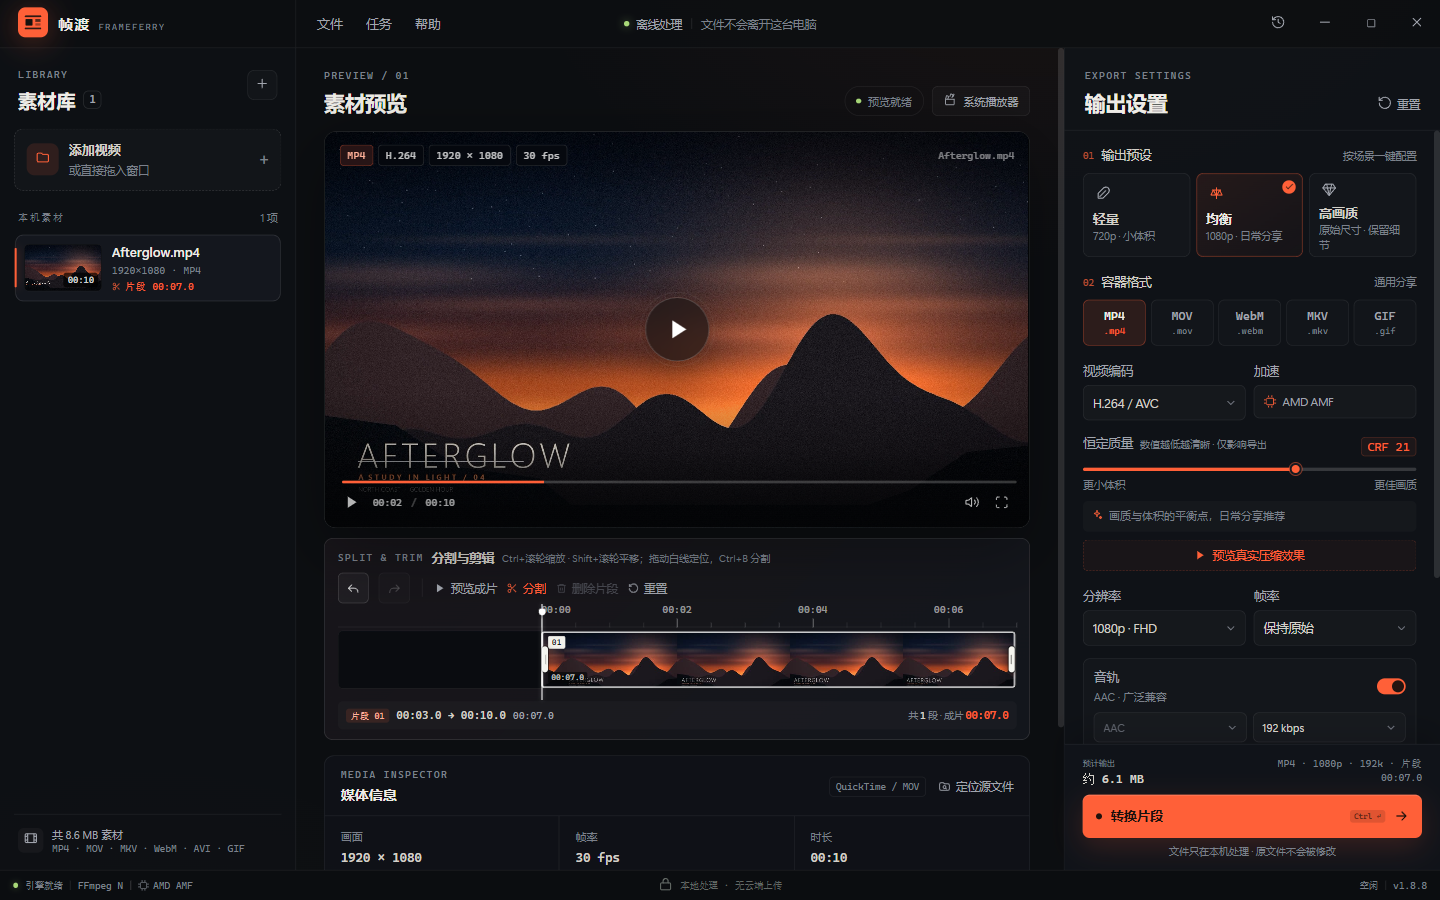
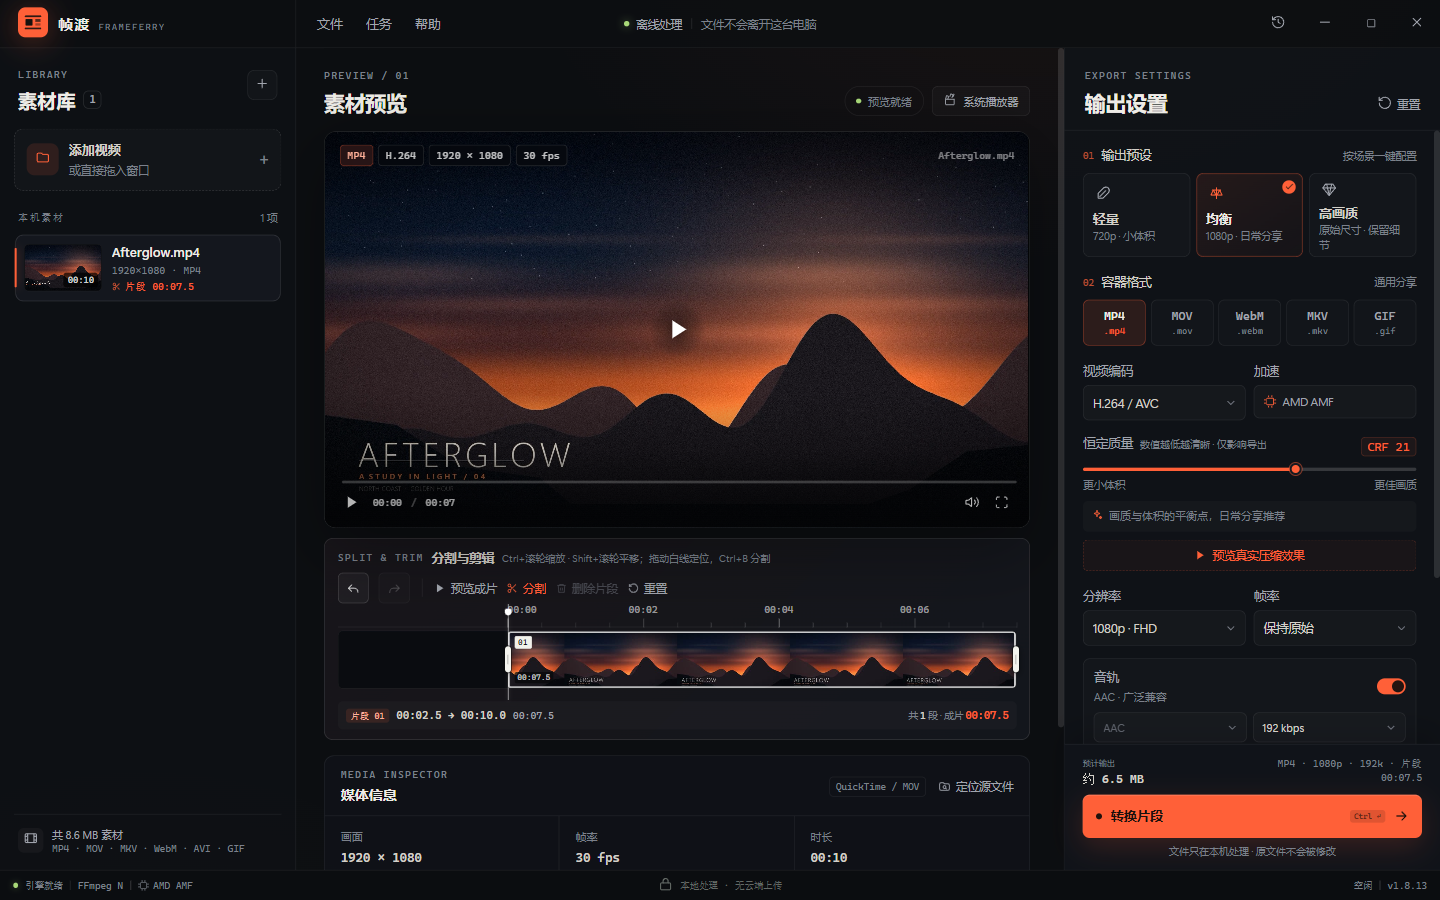
fix: 手柄中心对齐片段起止线
将选中手柄移出 .clip-content 裁剪层，放在 .clip-stage 中并用 translateX(-50%) 对准片段边界；手柄中心与两端白线重合，命中区完整，拖动裁剪保留。版本提升到 v1.8.13。

diff --git a/renderer/app.js b/renderer/app.js
@@ -1022,6 +1022,13 @@ function refreshTimelineView(file) {
   for (const line of content.querySelectorAll('.clip-cut-line')) {
     line.style.left = `${pct(Number(line.dataset.cutTime))}%`
   }
+  const selectedClip = (file.clips || []).find((clip) => clip.id === file.selectedClipId)
+  if (selectedClip) {
+    const startHandle = $('.clip-handle-start')
+    const endHandle = $('.clip-handle-end')
+    if (startHandle) startHandle.style.left = `${pct(selectedClip.start)}%`
+    if (endHandle) endHandle.style.left = `${pct(selectedClip.end)}%`
+  }
   const ruler = $('.clip-ruler')
   if (ruler) ruler.innerHTML = timelineRulerParts(view, file.clips?.[0]?.start || 0)
   const thumb = $('#timeline-scroll-thumb')
@@ -1060,10 +1067,10 @@ function renderTrimUI() {
     return `<div class="clip-block ${isSelected ? 'is-selected' : ''}" data-clip-id="${clip.id}" style="left:${left}%;width:${width}%">
       <span class="clip-block-index">${String(index + 1).padStart(2, '0')}</span>
       <span class="clip-block-duration">${formatTrimTime(clip.end - clip.start)}</span>
-      ${isSelected ? `<button class="clip-handle clip-handle-start" data-clip-handle="start" aria-label="调整片段入点"><span></span></button>` : ''}
-      ${isSelected ? `<button class="clip-handle clip-handle-end" data-clip-handle="end" aria-label="调整片段出点"><span></span></button>` : ''}
     </div>`
   }).join('')
+  const selectedHandles = `<button class="clip-handle clip-handle-start" data-clip-handle="start" data-clip-id="${selected.id}" style="left:${pct(selected.start)}%" aria-label="调整片段入点"><span></span></button>
+    <button class="clip-handle clip-handle-end" data-clip-handle="end" data-clip-id="${selected.id}" style="left:${pct(selected.end)}%" aria-label="调整片段出点"><span></span></button>`
   const cutLines = clips
     .map((clip, index) => {
       if (index === 0) return ''
@@ -1124,6 +1131,7 @@ function renderTrimUI() {
           ${blocks}
           ${cutLines}
         </div>
+        ${selectedHandles}
         <div class="trim-playhead" id="trim-playhead">
           <button class="playhead-grip" id="playhead-grip" title="拖动白线定位；双击白线或 Ctrl+B 分割"></button>
         </div>
@@ -2148,13 +2156,15 @@ function bindEvents() {
         const fromLeft = event.clientX - rect.left
         const fromRight = rect.right - event.clientX
         if (Math.min(fromLeft, fromRight) <= 24) {
-          handle = block.querySelector(fromLeft <= fromRight ? '.clip-handle-start' : '.clip-handle-end')
+          handle = $('#trim-slot').querySelector(fromLeft <= fromRight ? '.clip-handle-start' : '.clip-handle-end')
         }
       }
     }
     if (!handle) return
     const file = activeFile()
-    const block = handle.closest('.clip-block')
+    const trimSlot = $('#trim-slot')
+    const block = handle.closest('.clip-block') ||
+      trimSlot.querySelector(`.clip-block[data-clip-id="${handle.dataset.clipId}"]`)
     const timeline = $('#clip-stage')
     const video = $('#preview-video')
     if (!file?.info || !block || !timeline) return
@@ -2171,12 +2181,13 @@ function bindEvents() {
     event.stopPropagation()
     video?.pause()
 
+    const pct = (value) => view.duration ? ((value - view.start) / view.duration) * 100 : 0
     const timeAt = (pointerEvent) => {
       const rect = timeline.getBoundingClientRect()
       const ratio = Math.min(1, Math.max(0, (pointerEvent.clientX - rect.left) / rect.width))
       return view.start + ratio * view.duration
     }
-    const tipPosition = () => Math.min(94, Math.max(6, duration ? ((which === 'start' ? clip.start : clip.end) / duration) * 100 : 50))
+    const tipPosition = () => Math.min(94, Math.max(6, pct(which === 'start' ? clip.start : clip.end)))
     const tip = $('#clip-trim-tip')
     if (tip) {
       tip.hidden = false
@@ -2185,9 +2196,13 @@ function bindEvents() {
     }
     let historyPushed = false
     const refresh = () => {
-      const left = duration ? (clip.start / duration) * 100 : 0
+      const left = pct(clip.start)
       block.style.left = `${left}%`
-      block.style.width = `${Math.max(0, (duration ? (clip.end / duration) * 100 : 0) - left)}%`
+      block.style.width = `${Math.max(0, pct(clip.end) - left)}%`
+      const startHandle = trimSlot.querySelector('.clip-handle-start')
+      const endHandle = trimSlot.querySelector('.clip-handle-end')
+      if (startHandle) startHandle.style.left = `${pct(clip.start)}%`
+      if (endHandle) endHandle.style.left = `${pct(clip.end)}%`
       const blockDuration = $('.clip-block-duration', block)
       if (blockDuration) blockDuration.textContent = formatTrimTime(clip.end - clip.start)
       const range = $('#clip-selected-range')

diff --git a/renderer/styles.css b/renderer/styles.css
@@ -4768,3 +4768,30 @@ input:focus-visible {
   left: auto;
   transform: translateY(-50%);
 }
+
+/* Trim handles sit centered on the clip boundary, above the clipped media layer. */
+
+.clip-handle {
+  width: 16px;
+  transform: translateX(-50%);
+}
+
+.clip-handle-start,
+.clip-handle-end {
+  left: 0;
+  right: auto;
+}
+
+.clip-handle-start::before,
+.clip-handle-end::before {
+  left: 50%;
+  right: auto;
+  transform: translate(-50%, -50%);
+}
+
+.clip-handle-start::after,
+.clip-handle-end::after {
+  left: 50%;
+  right: auto;
+  transform: translate(-50%, -50%);
+}

diff --git a/docs/TEST_REPORT.md b/docs/TEST_REPORT.md
@@ -160,6 +160,8 @@
 | 暂停按钮样式 | 中央按钮 56px，无边框、无外圈、无实心背景；白色三角 + 淡径向光晕 |
 | 暂停淡入淡出 | 播放时 `stage-play` 带 `is-hidden`（opacity 0）；暂停后恢复显示 |
 | 分段切换不误暂停 | [0,2]+[4,6] 连续播放到 3s，`video.paused` 为 false，pause 事件计数 0 |
+| 手柄与边线重合 | 左边手柄中心 = 片段左边界 338.33；右边手柄中心 = 片段右边界 1015.67；手柄中心不缩进片段内 |
+| 手柄命中完整 | 手柄位于 `.clip-content` 外，16px 命中区完整；拖到 25% 后片段变为 [2.5,10] |
 | Ctrl+滚轮缩放 | 1.25x 后可视 8.8s，标尺重排为 00:02/04/06/08；缩略图同步拉长 |
 | Shift+滚轮平移 | 向右平移后视图起点 2.2s，标尺变为 00:04–00:10 |
 | 横向滚动条 | 缩放后出现滑块，宽度按可视比例计算；点击轨道右侧后起点 2.2s，标尺变为 00:04–00:10 |
